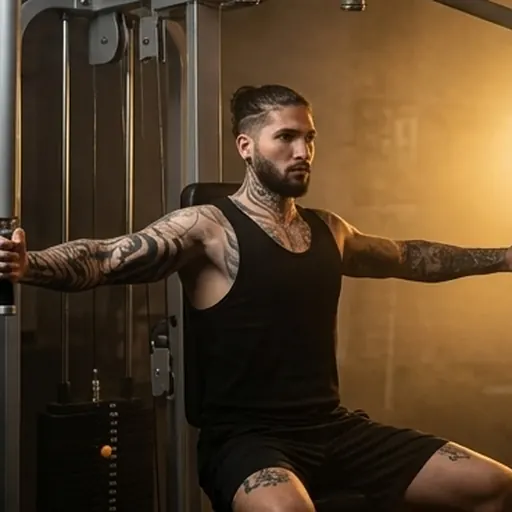
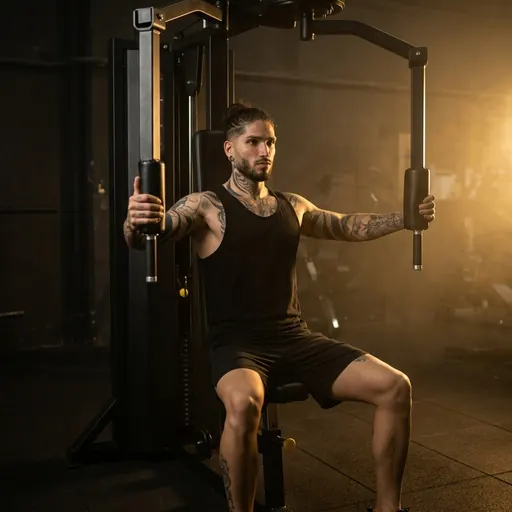
Fotos: press inclinado, pec-deck y buenos dias rehechas; remo agarre martillo sustituye la foto propia

diff --git a/gym-app/src/db/seedPhotos.ts b/gym-app/src/db/seedPhotos.ts
@@ -3,7 +3,7 @@ import type { ExercisePhoto } from '../types'
 
 // Bump when the bundled exercise art changes: factory photos of an older
 // version are replaced on the next start, photos the user took never are.
-const SEED_PHOTO_VERSION = 6
+const SEED_PHOTO_VERSION = 7
 
 // Exercise name (exact match) -> public/exercise-photos/<file>.webp.
 // 'hombre/…' = photos with Jonathan as the model (Gemini, 2026-10-18); the rest
@@ -96,6 +96,10 @@ const LEGACY_SEED_SIZES = new Set([
   248575, 29609, 39851, 252114, 76234, 44289,
 ])
 
+// Exercises whose current photo is replaced even if the user took it themselves
+// (he asked for it). Once replaced it counts as a factory photo, so this only happens once.
+const FORCE_REPLACE = new Set(['Remo en máquina agarre martillo'])
+
 function isFactoryPhoto(photo: ExercisePhoto): boolean {
   return photo.source === 'seed' || LEGACY_SEED_SIZES.has(photo.blob.size)
 }
@@ -118,7 +122,8 @@ export async function ensureExercisePhotosSeeded() {
     if (!exercise?.id) continue
 
     const current = await db.exercisePhotos.get(exercise.id)
-    if (current && (!isFactoryPhoto(current) || current.seedVersion === SEED_PHOTO_VERSION)) continue
+    const replaceable = current && (isFactoryPhoto(current) || FORCE_REPLACE.has(exerciseName))
+    if (current && (!replaceable || current.seedVersion === SEED_PHOTO_VERSION)) continue
 
     try {
       const res = await fetch(`${import.meta.env.BASE_URL}exercise-photos/${file}.webp`)
